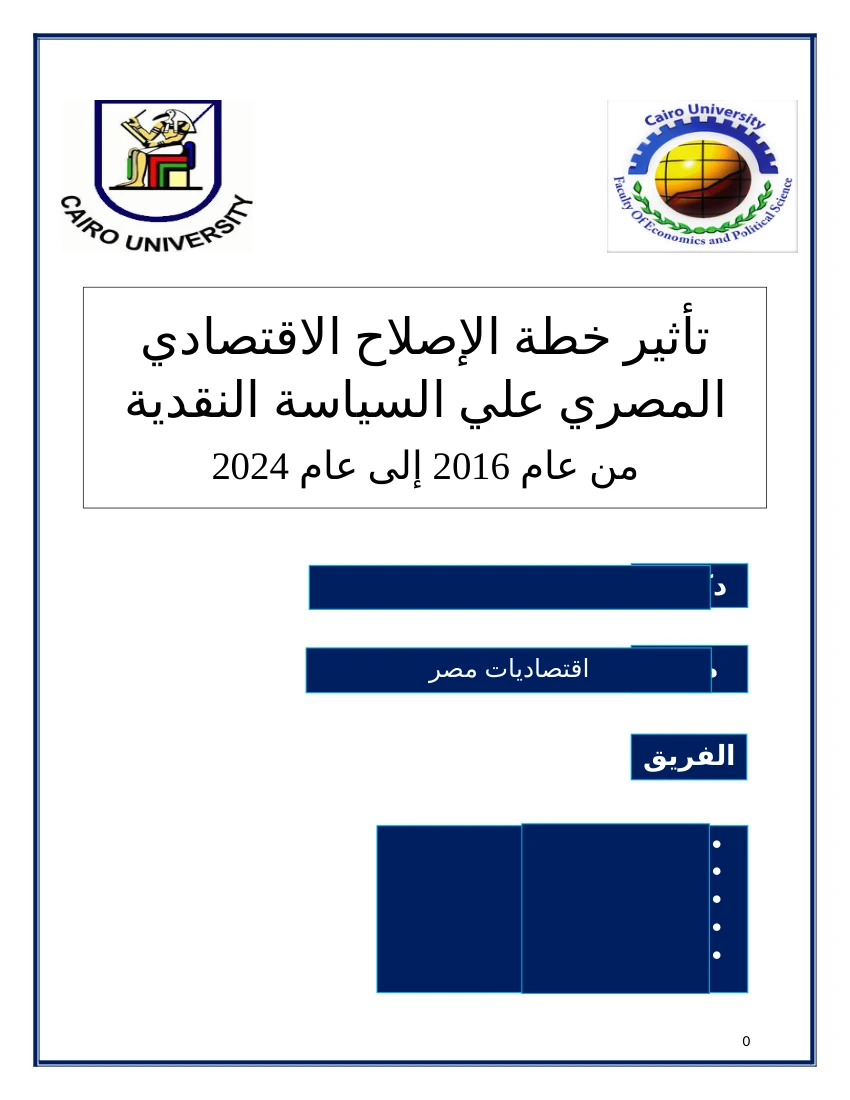
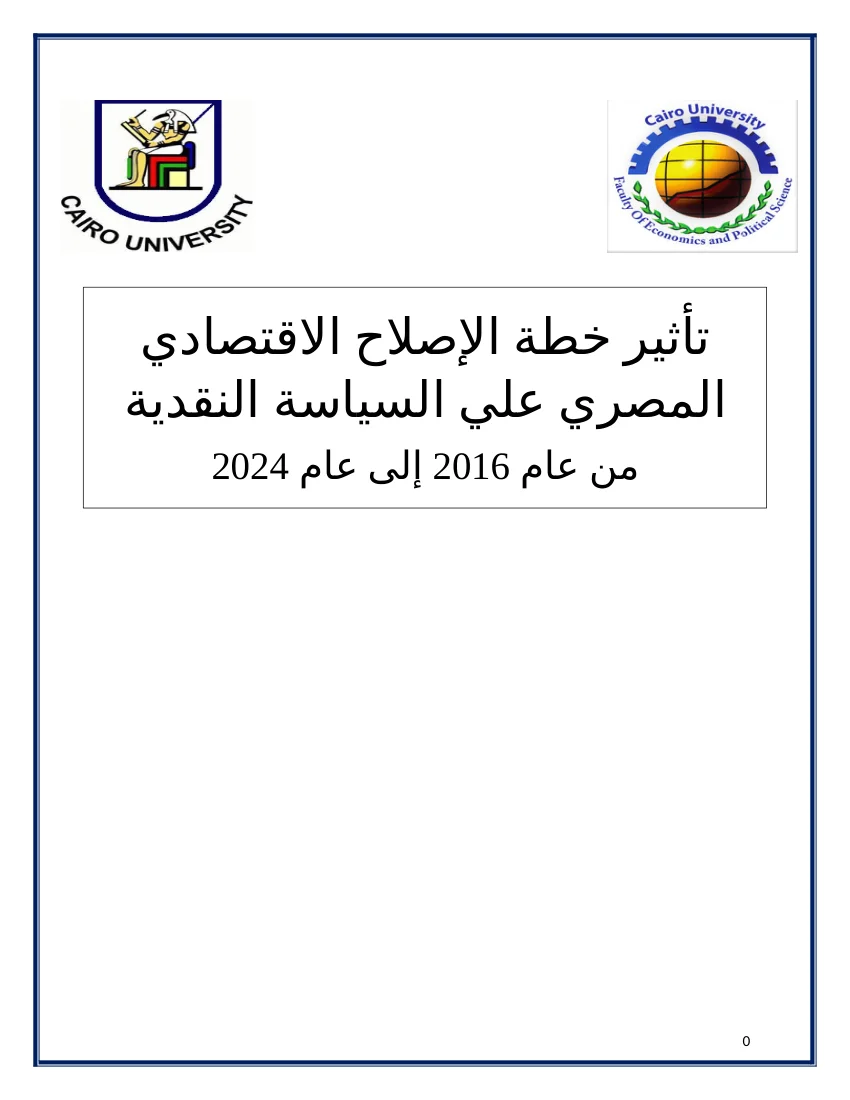
remove hero chart and refresh cover previews

Changed region(s): [[0.4282, 0.7418, 0.8871, 0.9273], [0.3365, 0.5873, 0.8871, 0.7109], [0.3365, 0.4945, 0.8871, 0.5564]]

diff --git a/index.html b/index.html
@@ -1037,7 +1037,7 @@ html[dir=rtl] details.cert-group[open] summary::before{transform:rotate(-90deg);
 html[dir=rtl] .project-action{text-align:right;}
 html[dir=rtl] .hero-monogram{margin:0 -10px 22px 0;}
 html[dir=rtl] .ticker-track{direction:ltr;}
-html[dir=rtl] .hero-chart{transform:scaleX(-1);}
+.hero-chart{display:none;}
 html[dir=rtl] .dashboard-preview span{text-align:left;}
 html[dir=rtl] .about-box ul,html[dir=rtl] .tl-item ul,html[dir=rtl] .activity-card ul{margin:10px 18px 0 0;}
 .lang-btn{padding:9px 18px!important;font-size:.88rem;font-family:inherit;}
